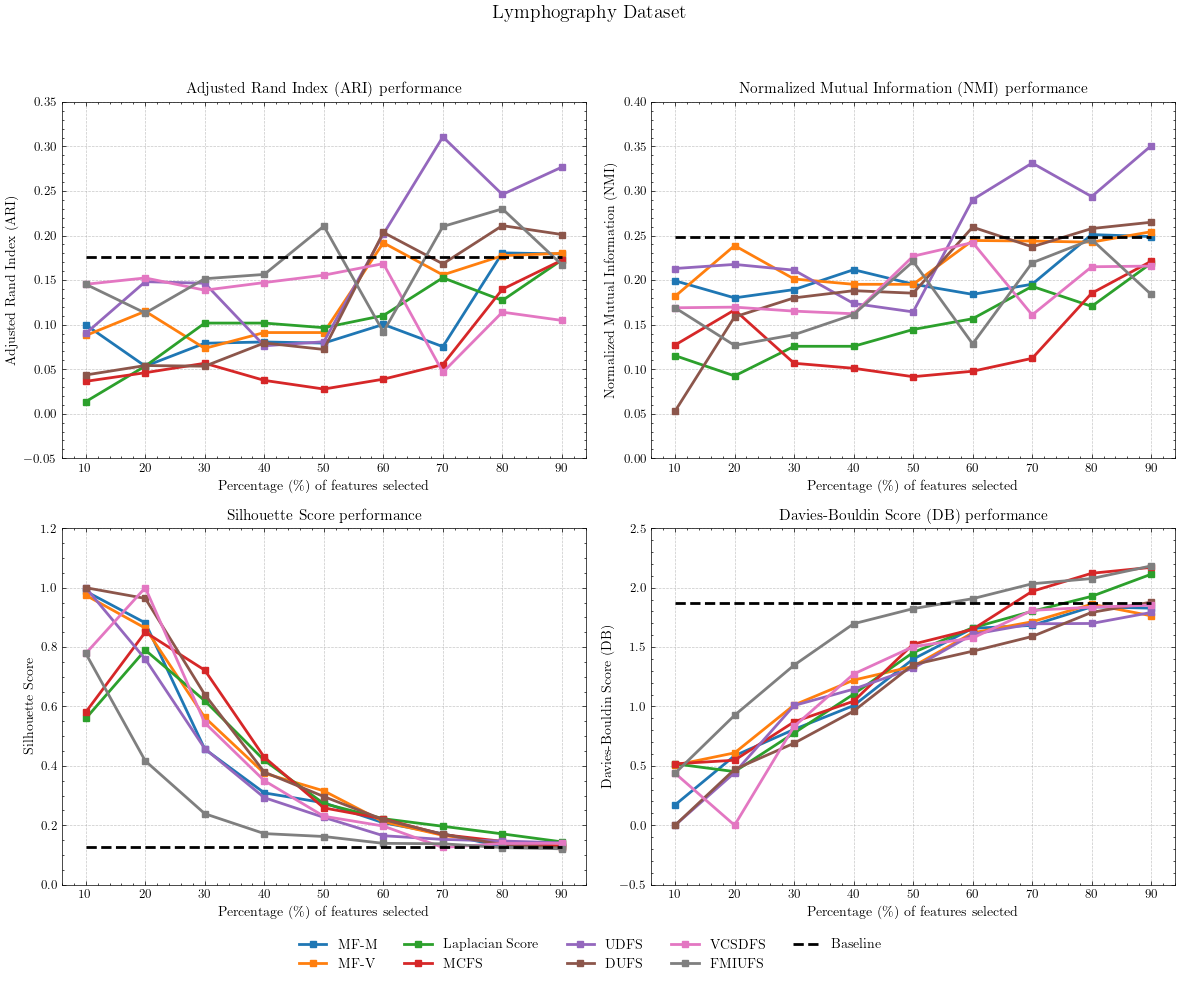
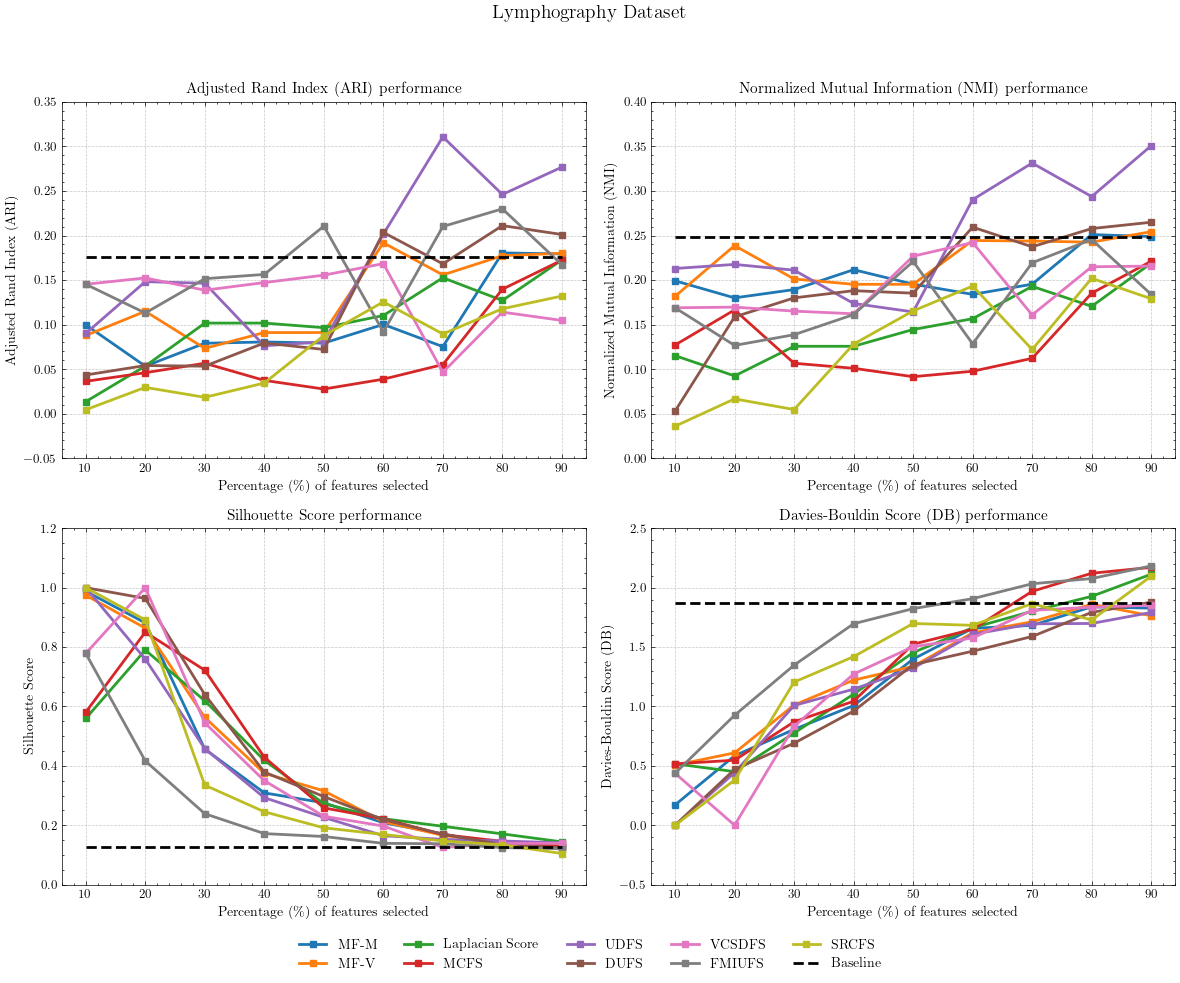
Atualizando figuras de resultados

diff --git a/gen_graphics_ieee.py b/gen_graphics_ieee.py
@@ -22,8 +22,8 @@ y_labels = [
 ]
 
 label_map = {
-    'MF_M': 'MF-M', 'MF_V': 'MF-V', 'LS': 'Laplacian Score', 'MCFS': 'MCFS',
-    'UDFS': 'UDFS', 'DUFS': 'DUFS', 'VCSDFS': 'VCSDFS', 'FMIUFS': 'FMIUFS', 'Baseline': 'Baseline'
+    'MF_M': 'MF-M', 'MF_V': 'MF-V', 'LS': 'Laplacian Score', 'MCFS': 'MCFS', 'UDFS': 'UDFS',
+    'DUFS': 'DUFS', 'VCSDFS': 'VCSDFS', 'FMIUFS': 'FMIUFS', 'SRCFS': 'SRCFS', 'Baseline': 'Baseline'
 }
 
 def load_data(dataset_name):
@@ -37,6 +37,7 @@ def load_data(dataset_name):
         'DUFS': pd.read_csv(f'{path}/DUFS.csv'),
         'VCSDFS': pd.read_csv(f'{path}/VCSDFS.csv'),
         'FMIUFS': pd.read_csv(f'{path}/FMIUFS.csv'),
+        'SRCFS': pd.read_csv(f'{path}/SRCFS.csv'),
         'Baseline': pd.read_csv(f'{path}/BASELINE.csv'),
     }
 
@@ -103,8 +104,28 @@ def plot_metrics_together(x, dataset_name, dataset_label):
 
 if __name__ == "__main__":
     x = [0.1, 0.2, 0.3, 0.4, 0.5, 0.6, 0.7, 0.8, 0.9]
-    dataset_name = 'Zoo'
-    dataset_label = 'Zoo'
+    # dataset_label = 'AR10P'
+    # dataset_name = 'AR10P'
 
-    # plot_metrics_separately(x, dataset_name, dataset_label)
-    plot_metrics_together(x, dataset_name, dataset_label)
+    dataset_map = {
+        'AR10P': 'AR10P',
+        'COIL20': 'COIL20',
+        'Heart-Statlog': 'Heart Statlog',
+        'Ionosphere': 'Ionosphere',
+        'Lymphography': 'Lymphography',
+        'Madelon': 'Madelon',
+        'PIE10P': 'PIE10P',
+        'Scene': 'Scene',
+        'Sonar': 'Sonar',
+        'TOX171': 'TOX-171',
+        'WDBC': 'WDBC',
+        'Wine': 'Wine',
+        'Zoo': 'Zoo'
+    }
+
+    for dataset_name, dataset_label in dataset_map.items():
+        print(f"Metrics results for dataset: {dataset_label}")
+        plot_metrics_together(x, dataset_name, dataset_label)
+
+    # plot_metrics_separately(x, dataset_label, dataset_name)
+    # plot_metrics_together(x, dataset_label, dataset_name)

diff --git a/utility/gen_latex_table.py b/utility/gen_latex_table.py
@@ -50,9 +50,9 @@ def format_latex_table_line(dataset_name, metric_name, percentage):
     return latex_line
 
 if __name__ == "__main__":
-    dataset_name = 'COIL20'
     metric_name = 'ari'
-    percentage = 0.9
+    dataset_name = 'Wine'
+    percentage = 0.8
 
     latex_row = format_latex_table_line(dataset_name, metric_name, percentage)
     print(latex_row)
